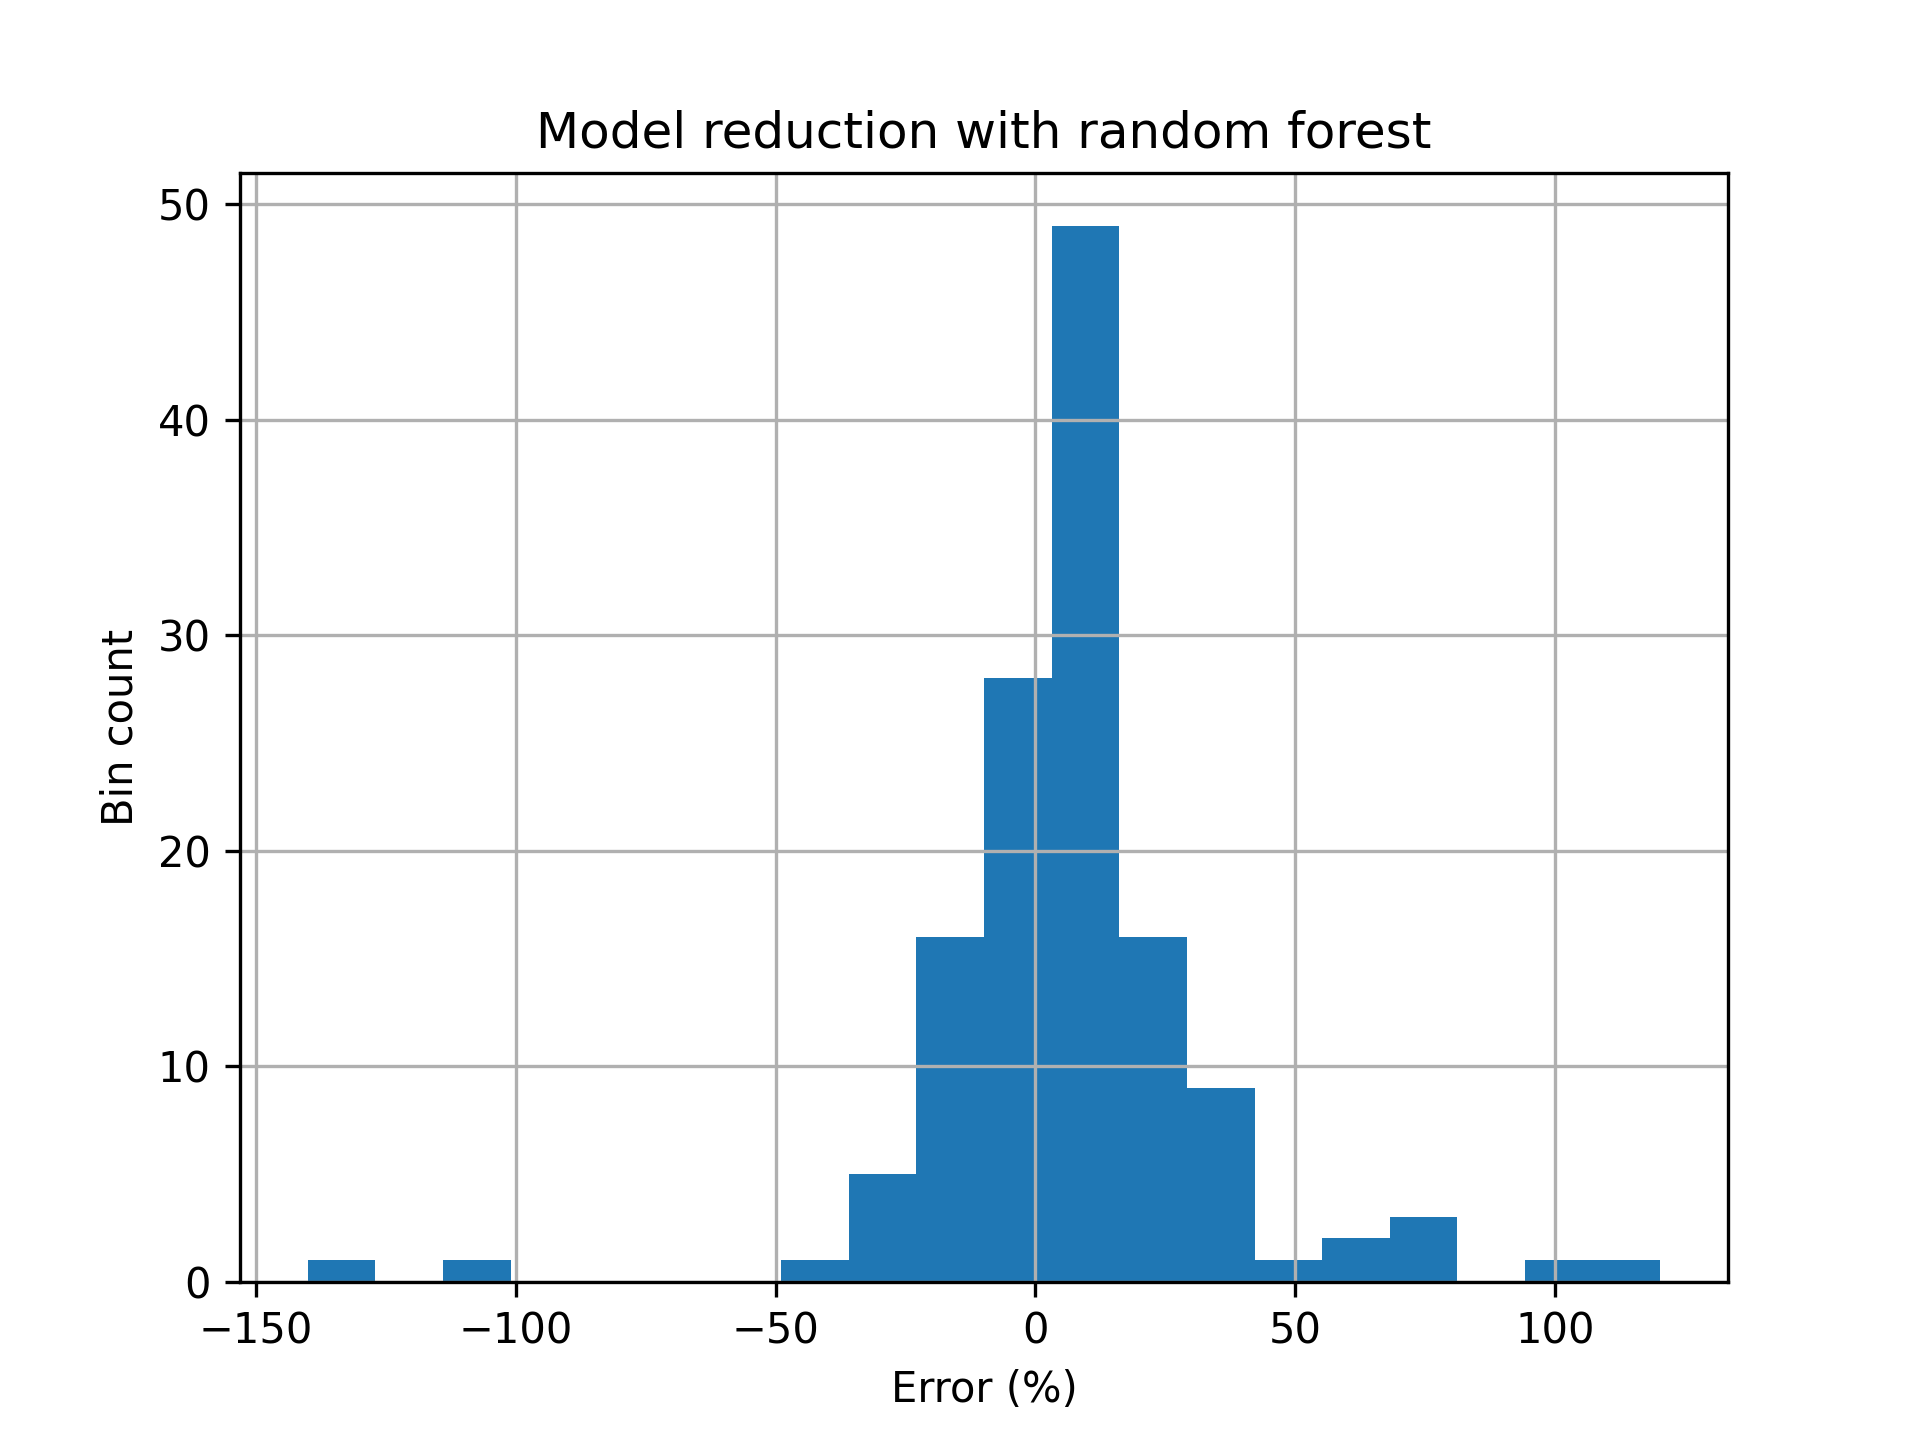
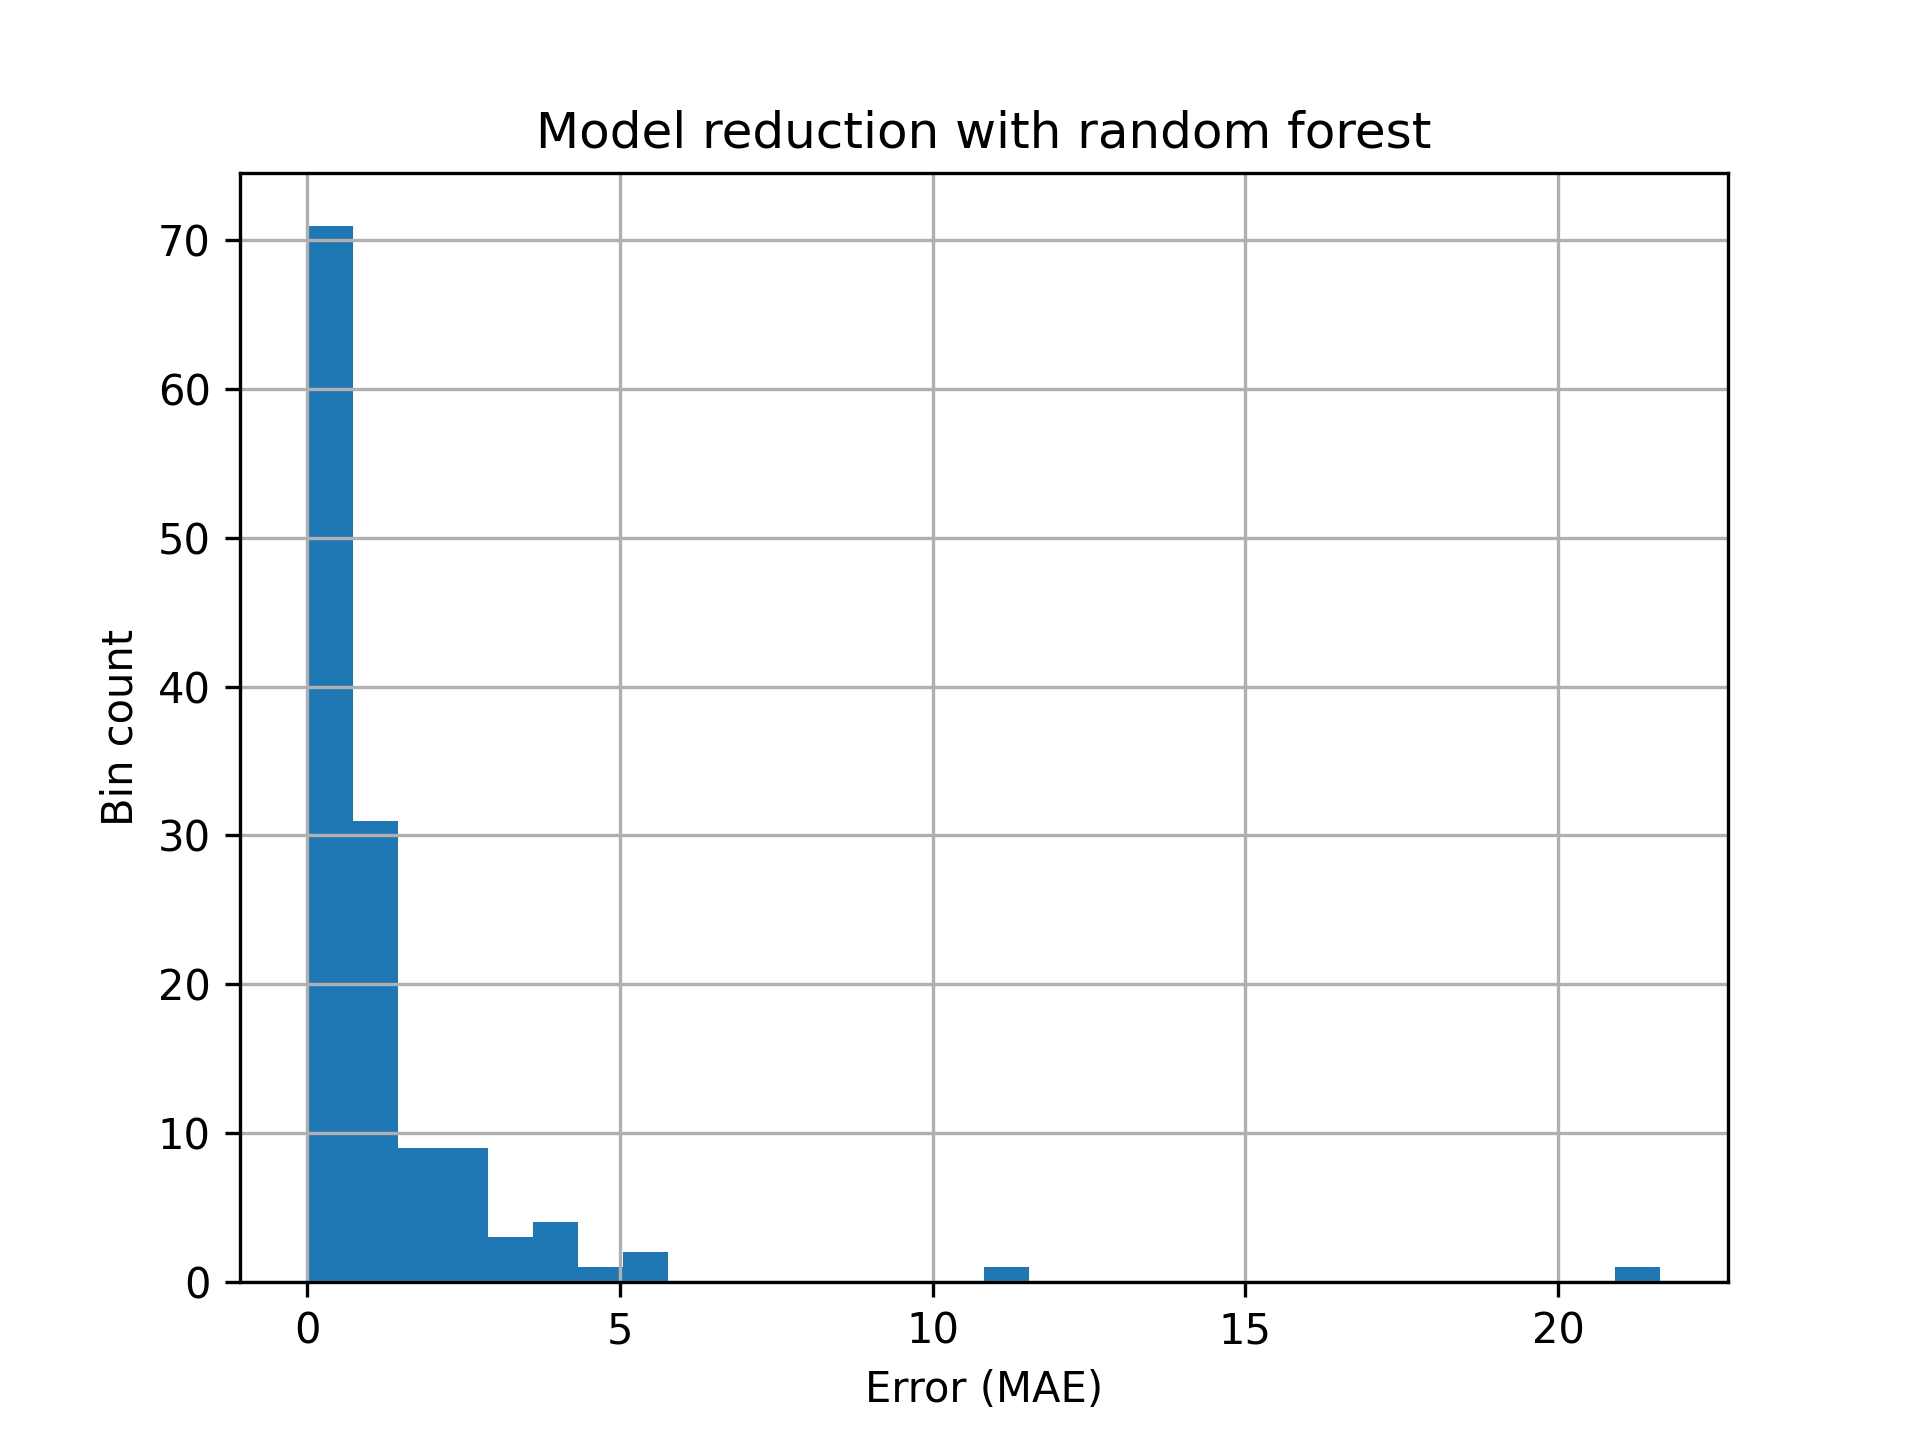
Adding AoA variations to the code, readme

diff --git a/main.py b/main.py
@@ -5,8 +5,9 @@ import numpy as np
 import pandas as pd
 from scipy.optimize import differential_evolution
 
-from src.optimization.openfoam_interfaces import read_force_coefficients
 from src.optimization.optimization import Parameters, funct
+from src.post_processing.aoa_processing import run_aoa_range
+from src.utils.utils import get_cst_by_uuid
 
 
 def custom_run():
@@ -90,30 +91,37 @@ def default_run():
         maxiter=10000000,
         popsize=60,
         tol=1e-1,
-        workers=20,
+        workers=15,
         seed=42,
         args=(run_parameters,),
     )
 
 
 if __name__ == "__main__":
-    parser = argparse.ArgumentParser(description="Choose the run mode.")
-    parser.add_argument(
-        "--custom",
-        action="store_true",
-        help="Run custom evaluation.",
-    )
-    parser.add_argument(
-        "--topn",
-        type=int,
-        help="Simulate top-n airfoils",
-    )
-    args = parser.parse_args()
+    # plot_aoa()
 
-    if args.custom:
-        custom_run()
-    elif args.topn is not None:
-        print(f"Simulating top-{args.topn} airfoils.")
-        run_top_n(n=args.topn)
-    else:
-        default_run()
+    x = get_cst_by_uuid(uuid="844d53b2-85b2-4862-a182-42cf707e58ff")
+
+    run_aoa_range(x=x, airspeed_magnitude=100, angle_range_deg=(30, 45), n_samples=20)
+
+    # parser = argparse.ArgumentParser(description="Choose the run mode.")
+    # parser.add_argument(
+    #     "--custom",
+    #     action="store_true",
+    #     help="Run custom evaluation.",
+    # )
+    # parser.add_argument(
+    #     "--topn",
+    #     type=int,
+    #     help="Simulate top-n airfoils",
+    # )
+    # args = parser.parse_args()
+
+    # if args.custom:
+    #     custom_run()
+    # elif args.topn is not None:
+    #     print(f"Simulating top-{args.topn} airfoils.")
+    #     run_top_n(n=args.topn)
+    # else:
+    #     default_run()
+    #     default_run()

diff --git a/src/post_processing/aoa_processing.py b/src/post_processing/aoa_processing.py
@@ -1,0 +1,53 @@
+from concurrent.futures import ProcessPoolExecutor
+from pathlib import Path
+from typing import Tuple
+
+import numpy as np
+
+from src.optimization.optimization import Parameters, funct
+
+
+def run_simulation(args):
+    aoa, airspeed_magnitude, x = args
+    v_x = airspeed_magnitude * np.cos(aoa)
+    v_y = airspeed_magnitude * np.sin(aoa)
+
+    run_parameters = Parameters(
+        run_name=f"{np.degrees(aoa):.2f}_degree_AoA",
+        cases_folder=Path("custom_runs/aoa"),
+        template_path=Path("openfoam_template"),
+        is_debug=True,
+        csv_path=Path("results/csv/aoa_results.csv"),
+        fluid_velocity=np.array([v_x, v_y, 0]),
+    )
+
+    funct(x=x, parameters=run_parameters)
+
+
+def run_aoa_range(
+    x: np.array,
+    airspeed_magnitude: float,  # m/s
+    angle_range_deg: Tuple[float, float],
+    n_samples: int = 10,
+):
+    x = np.array(
+        [
+            -0.2559407074537591,
+            0.08277623156819876,
+            0.012895024774770975,
+            0.30075161784670684,
+            0.7115298583892795,
+            0.021657744269316548,
+        ]
+    )
+
+    min_angle_deg, max_angle_deg = angle_range_deg
+    min_angle, max_angle = (
+        min_angle_deg / 360 * 2 * np.pi,
+        max_angle_deg / 360 * 2 * np.pi,
+    )
+    aoa_range = np.linspace(start=min_angle, stop=max_angle, num=n_samples)
+
+    args = [(aoa, airspeed_magnitude, x) for aoa in aoa_range]
+    with ProcessPoolExecutor(max_workers=10) as executor:
+        executor.map(run_simulation, args)

diff --git a/src/optimization/result_processing.py b/src/optimization/result_processing.py
@@ -35,6 +35,7 @@ def process_result(
         cd (Optional[float], optional): Coefficient of drag. Defaults to None.
     """
     timestamp = datetime.now().isoformat(timespec="microseconds")
+
     with open(parameters.csv_path, "a") as f:
         f.write(
             f'{timestamp},{case_uuid},"{parameters.run_name}",{x[0]},{x[1]},{x[2]},{x[3]},{x[4]},{x[5]},{no_clipping},{block_mesh_result},{check_mesh_result},{simple_result},{has_converged},{parameters.fluid_velocity[0]},{parameters.fluid_velocity[1]},{parameters.fluid_velocity[2]},{cl},{cd}\n'

diff --git a/src/utils/utils.py b/src/utils/utils.py
@@ -1,0 +1,22 @@
+from pathlib import Path
+
+import numpy as np
+import pandas as pd
+
+
+def get_cst_by_uuid(uuid: str, csv_path: Path = Path("results/csv/results.csv")):
+    df = pd.read_csv(csv_path)
+
+    selected_run = df[df["UUID"] == uuid]
+
+    if len(selected_run) == 0:
+        raise ValueError("Selected run does not exist.")
+
+    x = np.array(
+        [
+            selected_run[column].item()
+            for column in [str(f"x{index}") for index in range(0, 6)]
+        ]
+    )
+
+    return x

diff --git a/README.md b/README.md
@@ -106,17 +106,31 @@ With that, we get an interesting population. Three out of the top-four are all v
 
 $C_l/C_d$ _for different archetypes in the top-4 airfoils at 5° AoA._
 
-
-## Future steps 
-
 ### $C_l/C_d$ curves 
 
-I have added some basic angle-of-attack (AoA) formats already to the OpenFOAM templates. The next step will be to pick the best-performing airfoils, and simulate a range of angles for them, then analyze the lift and drag performance. The same can then be done for different velocities, to obtain estimates of the window of operation per airfoil before stall etc. occurs. 
+I added code to evaluate the lift-drag ratio as a function of the angle-of-attack (AoA). The fact that the airfoil performs best at 5° isn't very surprising; it's optimized for that point. For higher angles, performance rapidly decreases. I considered multi-objective optimization to create an airfoil that performs well over a wider range, but that would be very slow to run. 
+
+<img src="figures/01012025 - OpenFOAM - lift-drag ratio for angles of attack - random airfoil.png" width="600" alt="Angle-of-attack curves.">
+
+One interesting aspect here: I ran this up to 45°, but did not obtain sufficiently converged solutions there. Examining the forces for the highest AoA where `simpleFOAM` did not simply crash, we observe an oscillatory solution - I think this is basically the air detaching from the airfoil, resulting in a kind of Kármán vortex street, with SIMPLE unable to converge to a steady-state solution. Examining ParaView here, we indeed see oscillations in the flow field. 
+
+<img src="figures/
+01012025 - OpenFOAM - oscillatory solution to lift-drag ratio - 41.05 deg AoA.png" width="600" alt="$C_l/C_d$ at 41.05° AoA.">
+
+This behavior previously caused a lot of issues with very small or negative $C_d$ values, until I simply specified that any solution where $\sigma_{C_l/C_d} \geq 1$ over the last 500 steps is disqualified, to let differential evolution take care of it. 
 
 ### Model reduction 
 
 I am curious about potential model reduction: by predicting performance based on the six inputs, a lot of time could be saved. If a rough prediction on which airfoils perform best is accurate, a simple machine learning model like random forests could be used for an initial optimization stage. I doubt a simple model like this would be sufficient, but it's an interesting avenue to explore. 
 
-After some attempts, it seems surprisingly good. I get MAEs of 2 - 5, for a small training set, even for the best-performing airfoils, where there is correspondingly less data available. 
+After some attempts, it seems surprisingly good. I get MAEs of 1.5 - 5, for a small training set, even for the best-performing airfoils, where there is correspondingly less data available. This is technically a surrogate model-approach. 
 
 <img src="figures/27122024 - OpenFOAM - random forest model reduction.png" width="400" alt="Random forest model reduction idea">
+
+After running it a bit longer, it gets better and better; I'm very surprised. We do have a fair amount of data, but this is spread out in six dimensions; the curse of dimensionality should be kicking in here, yet somehow, even with quite sparse data, it's doing well. However, I am not using a randomly sampled set; the data is all from an optimizer, so it's likely to be clustered around certain regions, effectively reducing dimensionality. 
+
+## Future steps 
+
+### Expanding model reduction 
+
+I am curious about training the random forest or some other simple machine learning model, and optimizing over that instead - then verifying the results using OpenFOAM. I should also create a fully random training sample and evaluate that, to avoid clustering around certain types of airfoils. Difficulty there, is that a lot of potential airfoils are simply not meshable, or solvable, because of clipping and other odd shapes. Obtaining a representative sample that is not clustered around existing, realistic airfoils that are in the dataset may be difficult. 
